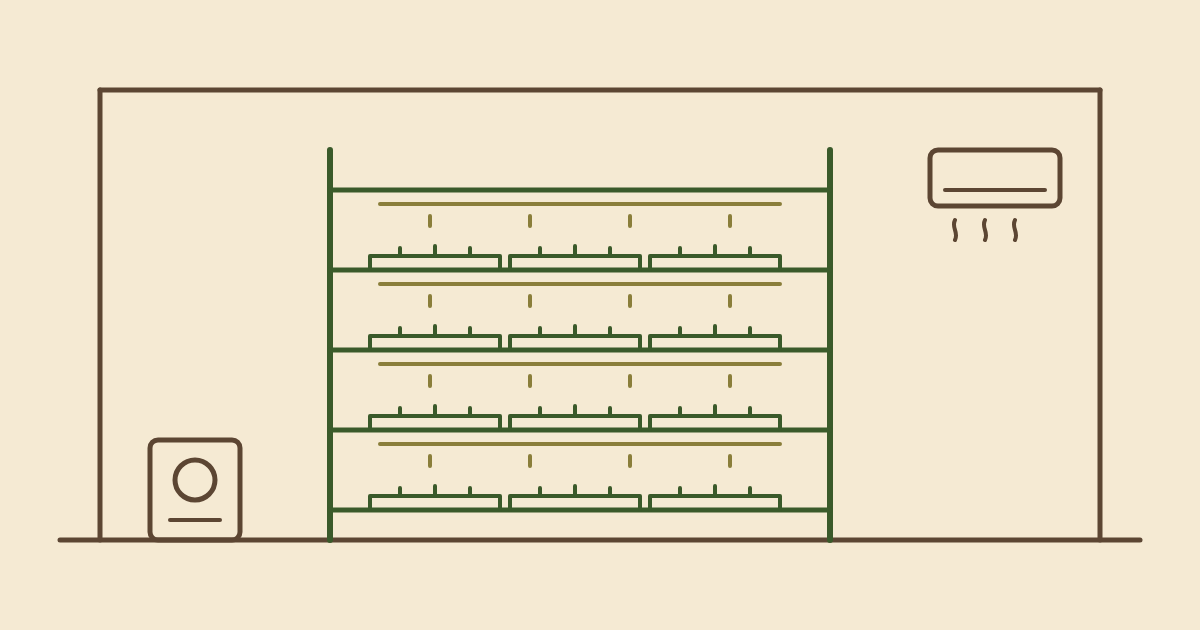
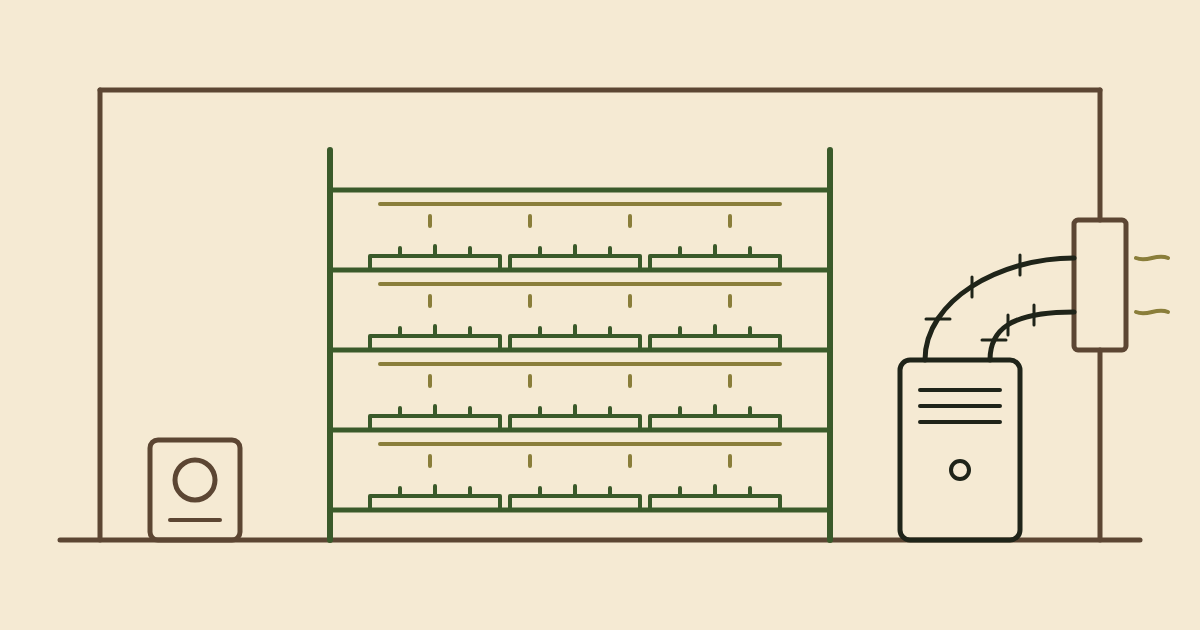
fix(blog): redraw shed hero with the actual portable A/C
The Jul 8 shed hero showed a wall-mounted air conditioner. The real
unit is a portable floor A/C with two hoses run out a window. Redraws
the hero art and corrects hero_alt and the SVG aria-label to match.
Body copy was already accurate and is unchanged.

Claude-Session: https://claude.ai/code/session_01Qckp96PUeAUMzhy35DYgbq

Changed region(s): [[0.74, 0.3317, 0.9867, 0.8746], [0.7708, 0.2111, 0.8942, 0.3317]]

diff --git a/CONTENT-PLAN.md b/CONTENT-PLAN.md
@@ -74,8 +74,9 @@ Three subjects, in this priority order:
   dragged hot humid air in through every crack. Albert diagnosed that, built a makeshift
   plenum around the intake, and cut a custom foam board panel to route both lines through the
   window. The room cooled after that modification. This story is its own post (see Backlog);
-  do not spend it inside another post. Note: the Jul 8 shed post's hero art and hero_alt show
-  a wall-mounted air conditioner and are wrong. Fix pending Albert's call.
+  do not spend it inside another post. The Jul 8 shed post's hero art and hero_alt showed a
+  wall-mounted air conditioner; both were redrawn and corrected on 2026-07-31. Its body copy
+  ("a small LG air conditioner") was already accurate and was left alone.
 - Homestead facts (updated 2026-07-16): year-old parked mulch piles become garden beds
   (our oldest daughter's second bed started as one). A sunn hemp food plot is already planted on the front
   three-quarter acre (seeded spring 2026, flowering by late June), with a new seed mix

diff --git a/posts/the-shed-albert-built.md b/posts/the-shed-albert-built.md
@@ -4,7 +4,7 @@ description: "A tour of the Volkman Farms grow shed in Sanford: the racks, the f
 date: 2026-07-08T09:00:00-04:00
 pillar: Homestead journal
 hero: /assets/blog/the-shed-albert-built.svg
-hero_alt: "Line drawing inside the grow shed: a rack of microgreen trays under light bars, an air conditioner on the wall, and a dehumidifier on the floor"
+hero_alt: "Line drawing inside the grow shed: a rack of microgreen trays under light bars, a portable floor air conditioner running two hoses out a window, and a dehumidifier on the floor"
 image: /assets/blog/the-shed-albert-built.png
 ---
 
